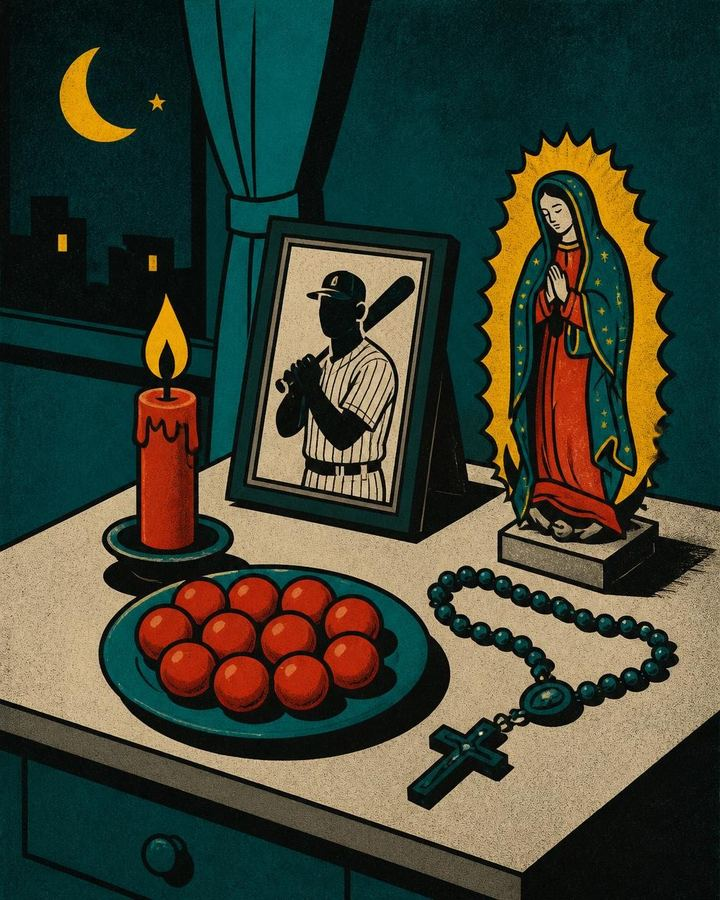
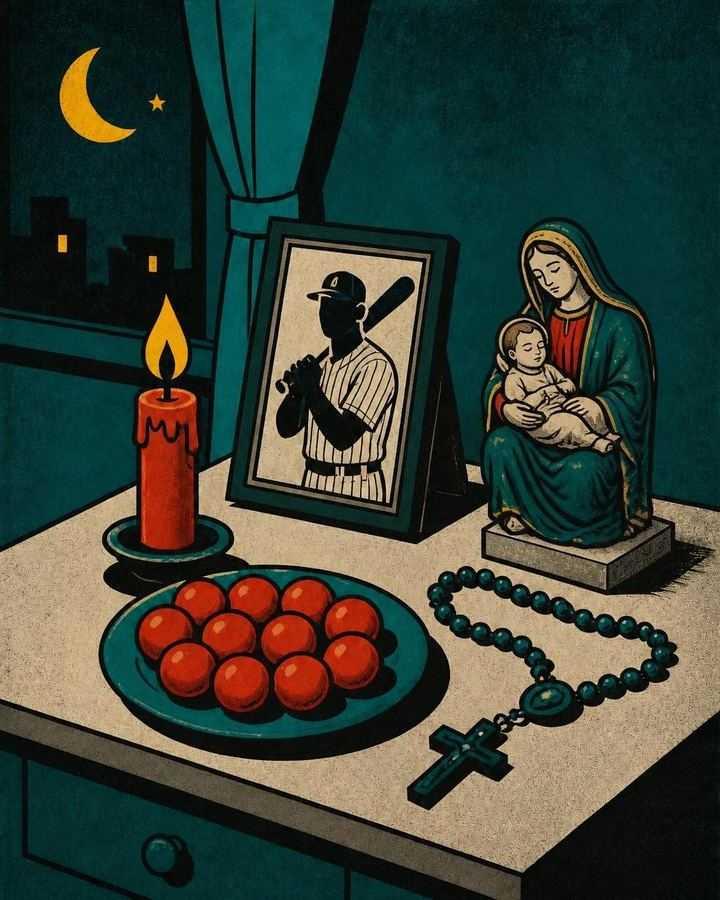
Legend art: new Clemente altar and El Jacho, add El Chupacabras
Claude-Session: https://claude.ai/code/session_01HGpZt6v2e52s6eXYPBLY4P

diff --git a/El Bloque.dc.html b/El Bloque.dc.html
@@ -1049,8 +1049,8 @@ const DON={pelotero:'atleta',rapero:'artista',estudioso:'estudioso',buscon:'busc
 const PORTRAITS=['abuela','rosado','mito','chago','chuco','pepe','ines','lydia','guille','kiko','cintron','ramon','wichi','yadiel'];
 // Who runs each place: their portrait shows next to the place name.
 const HOSTS={apto:'abuela',taller:'chago',colmado:'pepe',panaderia:'lydia',iglesia:'ramon',gimnasio:'rosado',boqueron:'mito',finca:'chuco',botanica:'ines',castillo:'guille',lavanderia:'fela'};
-const LEGEND_ART=['clemente','hupia','jacho','guanina','garita'];
-const ART={clemente:{pos:'center 40%'},hupia:{pos:'center 35%'},jacho:{pos:'center 20%'},guanina:{pos:'center 45%'},garita:{pos:'center 60%'}};
+const LEGEND_ART=['clemente','hupia','jacho','guanina','garita','chupacabra'];
+const ART={clemente:{pos:'center 40%'},hupia:{pos:'center 35%'},jacho:{pos:'center 30%'},guanina:{pos:'center 45%'},garita:{pos:'center 60%'},chupacabra:{pos:'center 55%'}};
 // El diccionario del bloque: a word unlocks the first time it shows up in a card, message or activity (+1 coquí).
 const WORDS=[
  {k:'caserio',w:'Caserío',re:'caser[ií]o',m:'Vivienda pública. El gobierno usó la palabra desde los \'40; después la cambió por "residencial" porque la gente de afuera la usaba como insulto.'},
@@ -1254,7 +1254,7 @@ const QUESTS={
    {label:'Pensar en alguien',d:{feli:5},legend:'ceiba',out:'Pensaste en una persona. El viejito sonrió como si supiera quién.'},
    {label:'Sentarte con el viejito',d:{coco:2,feli:2},legend:'ceiba',out:'Te contó cuarenta años de Caguas en una tarde.'}]}},
  ch1:{title:'Vigilia en Canóvanas',where:'La finca de Don Chuco · Canóvanas',place:'finca',act:{label:'Hacer guardia de noche con Don Chuco',fx:'Leyenda',cost:2,d:{}},reward:{coquis:5},out:'Pasaste la noche esperando al Chupacabras.',meet:'chuco',next:'ch2',
-  card:{kicker:'Finca de Don Chuco · 3:14am',title:'Algo se movió',body:'Dos cafés, una linterna, el perro temblando. A las 3:14 algo se mueve entre las matas. Don Chuco te agarra el brazo: "¡Ahí está!" Alumbras. Dos ojos rojos te miran… y salen corriendo. Una cabra grita. Por la mañana, la cabra está bien. Muy asustada, pero bien.',ch:[
+  card:{art:'chupacabra',kicker:'Finca de Don Chuco · 3:14am',title:'Algo se movió',body:'Dos cafés, una linterna, el perro temblando. A las 3:14 algo se mueve entre las matas. Don Chuco te agarra el brazo: "¡Ahí está!" Alumbras. Dos ojos rojos te miran… y salen corriendo. Una cabra grita. Por la mañana, la cabra está bien. Muy asustada, pero bien.',ch:[
    {label:'"¡Lo vimos!"',d:{feli:4},grow:'creyente',legend:'chupacabra',out:'Don Chuco te abrazó llorando. "¡Por fin alguien me cree!"'},
    {label:'"Era un perro realengo"',d:{coco:3},legend:'chupacabra',out:'"Un perro con ojos rojos", dijo Don Chuco. "Sigue creyendo eso."'}]}},
  ch2:{title:'La evidencia',where:'La alcaldía · Canóvanas',place:'alcaldia',act:{label:'Llevarle la historia al alcalde',fx:'Leyenda · final',cost:1,d:{}},reward:{coquis:10},out:'Saliste en las noticias de Canóvanas.',
